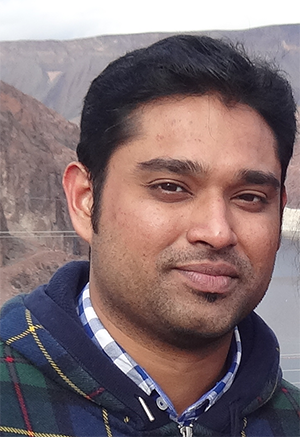
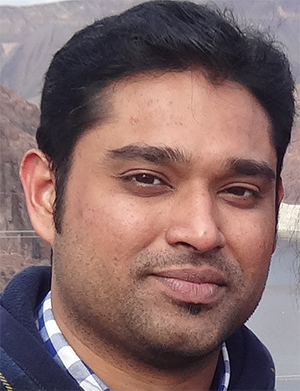
Changes

diff --git a/index.html b/index.html
@@ -26,48 +26,73 @@
 		</header>
     <section>
       <div class="container well">
-              <div class="col-md-2 pull-left">
-                <img src="images/MyFace.png" alt="My Face" class="img-responsive img-circle" />
+              <div class="col-md-4 pull-left">
+                <img src="images/MyFace2.png" alt="My Face" class="img-responsive img-rounded" />
               </div>
-            <div class="col-md-10">
+            <div class="col-md-5">
               <h2> Sai Krishna Rao Katterishetty </h2>
               <p>
-                  <em>Mobile/Web Developer with a passion for iOS and Responsive Web</em>
+                  <em>Mobile/Web Developer with a passion for iOS and Responsive Web Design</em>
               </p>
             </div>
-            <!--div class="row well well-lg">
-                <div class="col-sm-10">
-                  <h4> Background </h4>
-                    <p>
-                         My interest in web development stemmed from my passion for gaming. Between developing websites and playing video games,
-                         I admittedly spend most of my time in front of a screen. Some of my passions are writing clean code, 
-                         creating sexy user experiences and filling up a fresh cup of coffee.
-                    </p>
-                </div>
-            </div-->
+            <div class="col-md-8">
+              <h2> Background </h2>
+                <p>
+                     My interest in mobile development stemmed from my passion to make thing better and easier. Between developing websites and mobile apps,
+                     I admittedly spend most of my time in front of a screen. Some of my passions are writing clean code, 
+                     creating sexy user experiences and filling up a fresh cup of coffee.
+                </p>
+            </div>
       </div>
-      <section  class="row">
+      <section class="container well">
+        <div class="col-md-12">
         <h2>My Projects</h2>
         <p>
-           Some of my projects are 
+            <ol>
+              <li>Upcoming iOS app for New England Table Tennis</li>
+              <li>Poochdate, social networking site for Pets, in the works</li>
+            </ol>
         </p>
+        </div>
       </section>
-      <section  class="row">
+
+      <section  class="container well">
+        <div class="row">
+          <div class="col-md-12">
           <h2> Technologies </h2>
           <ul>
             <li> Objective C </li>
             <li> Ruby </li>
             <li> Javascript </li>
+            <li> Java </li>
+            <li> Linux </li>
           </ul>
+          </div>
+          <div>
       </section>
-       <section  class="row">
-         <h2>My Life </h2>
-         <p>some images ..</p>
-       </section>
-		</section>
 
-    <footer class="container">
-        All Rights Reserved Saikrishna
+    <footer class="footer">
+        <div class="container">
+          <div class="row">
+          <div class="col-md-6">
+              <h3> Stay in Touch </h3>
+              <ul class='list-unstyled'>
+                  <li>Twitter</li>
+                  <li>Facebook</li>
+                  <li>Google Plus</li>
+                  <li>Mail</li>
+              </ul>
+          </div>
+       <div class='col-sm-4 col-md-3 col-md-offset-1 col-xs-6'>
+        <h3>Contact Me</h3>
+        <ul class='list-unstyled'>
+          <li><i class='glyphicon glyphicon-globe'></i> Attleboro, MA<li>
+          <li><i class='glyphicon glyphicon-phone'></i> (724) 726-1617 <li>
+          <li><i class='glyphicon glyphicon-envelope'></i> <a href='mailto:#'>rao.saikrishna@gmail.com</a><li>
+        </ul>
+       </div>   
+        </div>
+        </div>
     </footer>
 	</main>
  <script src="js/jquery-2.1.3.js"></script>
